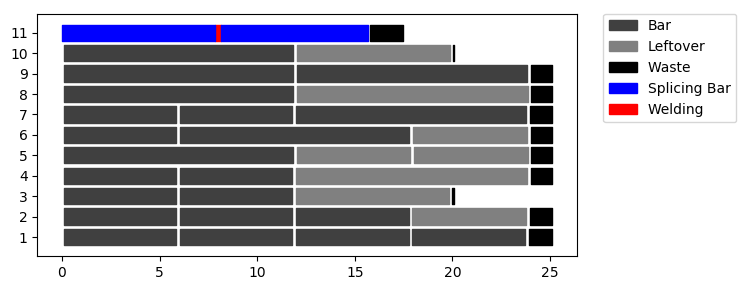
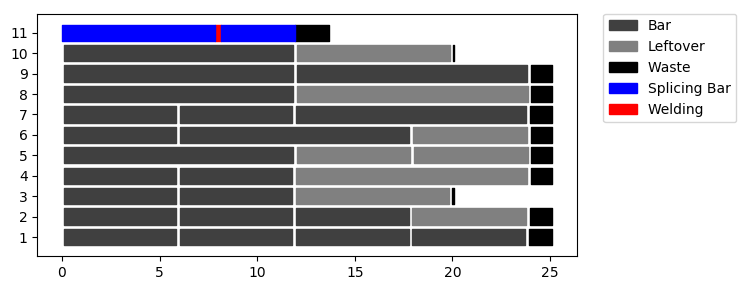
Consegui o plot

Changed region(s): [[0.37, 0.0621, 0.555, 0.1552]]

diff --git a/Cutting_P/Modelo_Cplex.cpp b/Cutting_P/Modelo_Cplex.cpp
@@ -617,14 +617,14 @@ void Modelo_Cplex::PlotarBarras() {
 			contador++;
 			double soma = 0;
 			
-			for (auto i : mu.tamanhos)
-				soma += i* b[W + i];
+			for (int i = 0; i < V; i++)
+				soma += mu.tamanhos[i]* b[W + i];
 
 			//txtsolu << contador << "," << 0
 			//	<< "," << soma - SPL_epsilon<< ",Type 4" << endl;
 
-			txtsolu << contador << "," << soma - SPL_epsilon + 0.1
-				<< "," << soma - SPL_epsilon + mu.folga << ",Type 3" << endl;
+			txtsolu << contador << "," <<  L[mu.barra_gerada]
+				<< "," << L[mu.barra_gerada] + mu.folga << ",Type 3" << endl;
 
 			for (auto i : mu.tamanhos) {
 				for (int v = 0; v < i; v++) {
@@ -635,7 +635,7 @@ void Modelo_Cplex::PlotarBarras() {
 						txtsolu << contador << "," << aux << ","
 							<< aux + SPL_epsilon << ",Emenda" << endl;
 						txtsolu << contador << "," << aux + SPL_epsilon <<
-							"," << soma - SPL_epsilon << ",Type 4" << endl;
+							"," << L[mu.barra_gerada] << ",Type 4" << endl;
 
 
 					}
